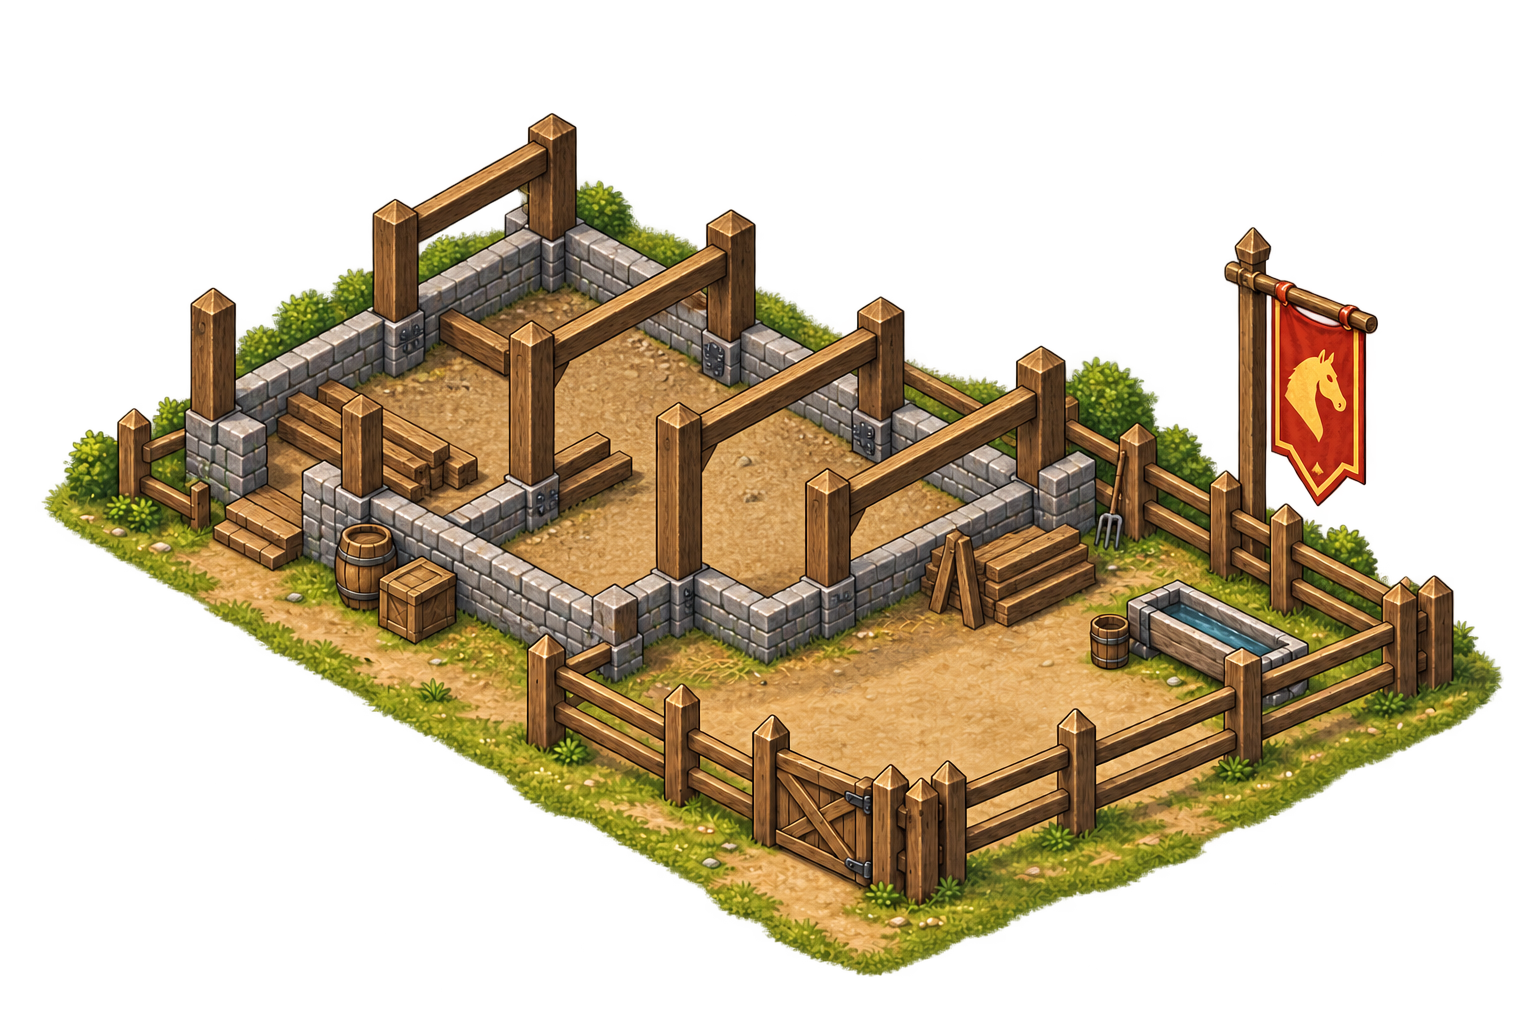
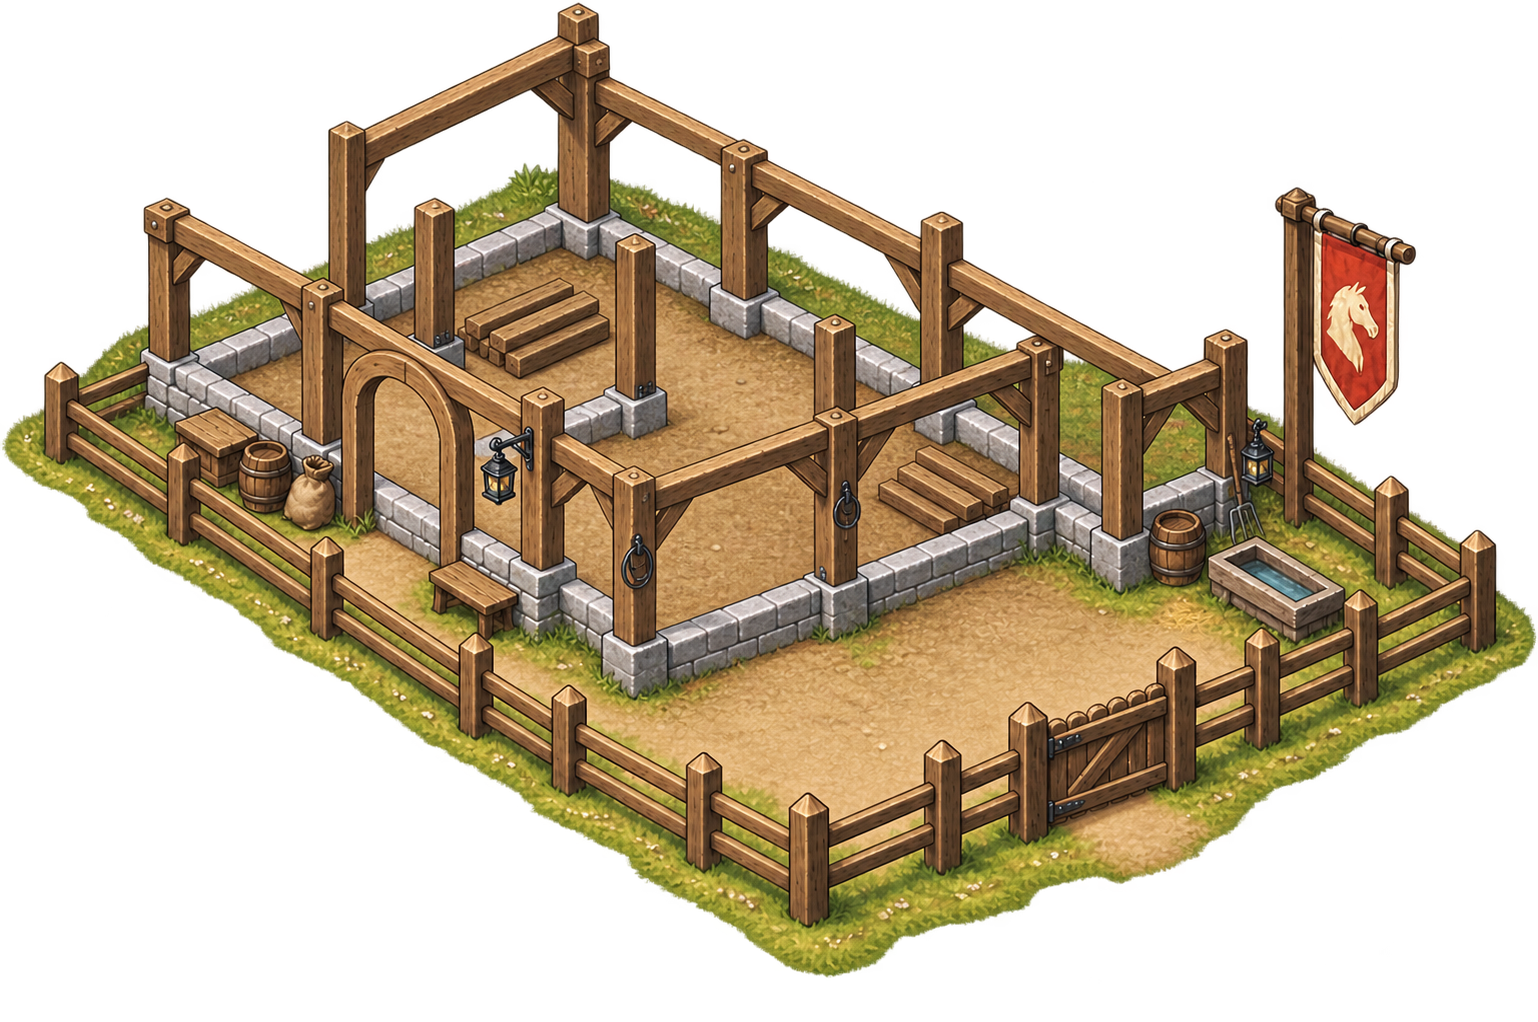
Auto-sync: 2026-09-24 01:21:37 | 15 changes (13 modified, 2 new, 13 deleted)

diff --git a/src/render/combatScene.ts b/src/render/combatScene.ts
@@ -58,8 +58,8 @@ export function createCombatScene(scene: THREE.Scene, characters: CharacterAsset
   function makeFighter(role: Fighter["role"], index: number, southernEdge: number): void {
     const lane = index % 5;
     const row = Math.floor(index / 5);
-    const targetY = -7.8 - lane * LANE_SPACING;
-    const targetX = role === "enemy" ? 1.9 + lane * 0.12 : role === "archer" ? -9.2 - row * 1.35 : role === "horseman" ? -2.6 - lane * 0.1 : -1.5 - lane * 0.12;
+    const targetY = -7.8 - lane * LANE_SPACING - (role === "horseman" ? 0.45 : 0);
+    const targetX = role === "enemy" ? 1.9 + lane * 0.12 : role === "archer" ? -9.2 - row * 1.35 : role === "horseman" ? -4.5 - lane * 0.1 : -1.5 - lane * 0.12;
     const startX = role === "enemy" ? -2.5 + lane * 1.3 : civicGround.x + (lane - 2) * 1.25;
     const startY = role === "enemy" ? southernEdge - SIZE - lane * 0.25 : civicGround.y - (role === "archer" ? 5.1 : role === "horseman" ? 7.0 : 3.4) - row * 1.35;
     const material = new THREE.SpriteMaterial({ map: role === "enemy" ? enemyWalk[0] : characters.getFrame(role, 0), transparent: true, depthTest: false });
@@ -67,7 +67,7 @@ export function createCombatScene(scene: THREE.Scene, characters: CharacterAsset
     const size = role === "horseman" ? SIZE * 1.32 : SIZE;
     sprite.scale.set(role === "enemy" ? -size : size, size, 1);
     sprite.position.set(startX, startY + size / 2, 2.8);
-    sprite.renderOrder = 75 + lane + row;
+    sprite.renderOrder = (role === "horseman" ? 86 : 75) + lane + row;
     scene.add(sprite);
     fighters.push({ sprite, material, role, lane, startX, startY, targetX, targetY });
   }
@@ -183,7 +183,8 @@ export function createCombatScene(scene: THREE.Scene, characters: CharacterAsset
     if (!active || finished) return null;
     const t = elapsed - startTime;
     if (t < 4.5) return "Raiders surge from the south as defenders leave the town center!";
-    if (t < 12.2) return strategy === "mixed" ? "Archers fire over the swordsmen holding the line!"
+    if (t < 12.2) return horsemenCount > 0 ? "Horsemen charge as the city defenders hold the line!"
+      : strategy === "mixed" ? "Archers fire over the swordsmen holding the line!"
       : strategy === "horsemen" ? "The horsemen charge through the raider line!"
       : strategy === "archers" ? "A volley of arrows rains on the raiders!"
         : strategy === "swordsmen" ? "The city's swordsmen meet the raider charge!"

diff --git a/src/main.ts b/src/main.ts
@@ -330,11 +330,14 @@ function handleSimulationEvents(events: SimulationEvent[]): void {
       const copy = completedMove < TOTAL_MOVES
         ? `Completed on Move ${completedMove}. The civic center also advanced.`
         : `Completed on Move ${completedMove}. The Grand Muster Hall stands ready to defend the city.`;
-      const newSoldiers = [
+      const trainedThisMove = [
         simulation.state.builtBuildingIds.includes("blacksmith") && "1 swordsman",
         simulation.state.builtBuildingIds.includes("weapons-workshop") && "1 archer",
         simulation.state.builtBuildingIds.includes("stable") && "2 horsemen",
-      ].filter(Boolean).join(" and ");
+      ].filter(Boolean);
+      const newSoldiers = trainedThisMove.length > 1
+        ? `${trainedThisMove.slice(0, -1).join(", ")}${trainedThisMove.length > 2 ? "," : ""} and ${trainedThisMove.at(-1)}`
+        : trainedThisMove[0] ?? "";
       hud.showMilestone(BUILDINGS[event.buildingId].name, newSoldiers ? `${copy} ${newSoldiers} joined the garrison.` : copy, animationElapsed);
     } else if (event.type === "civic-upgraded") {
       civicCenter.setLevel(event.level);
@@ -355,7 +358,8 @@ function handleSimulationEvents(events: SimulationEvent[]): void {
       villagerField.syncVillagers(Math.max(0, event.total - simulation.state.trainedUnits.archers - simulation.state.trainedUnits.swordsmen - simulation.state.trainedUnits.horsemen));
     } else if (event.type === "unit-trained") {
       villagerField.syncGarrison(event.units, animationElapsed, simulation.state.builtBuildingIds);
-      const newUnits = [event.newSwordsmen && "1 swordsman", event.newArchers && "1 archer", event.newHorsemen && "2 horsemen"].filter(Boolean).join(" and ");
+      const trained = [event.newSwordsmen && "1 swordsman", event.newArchers && "1 archer", event.newHorsemen && "2 horsemen"].filter(Boolean);
+      const newUnits = trained.length > 1 ? `${trained.slice(0, -1).join(", ")}${trained.length > 2 ? "," : ""} and ${trained.at(-1)}` : trained[0] ?? "";
       hud.setStatus(`${newUnits} joined the town hall garrison · ${event.units.swordsmen + event.units.archers + event.units.horsemen} defenders`, 1);
     } else if (event.type === "army-mustered") {
       void startCombat(event.report);

diff --git a/src/render/villagers.ts b/src/render/villagers.ts
@@ -254,10 +254,10 @@ export function createVillagerField(scene: THREE.Scene, characters: CharacterAss
     }
     if (animationElapsed === undefined) {
       lastGarrisonElapsed = null;
-        let swordIndex = 0;
-        let archerIndex = 0;
-        let horseIndex = 0;
-        for (const soldier of garrison) {
+      let swordIndex = 0;
+      let archerIndex = 0;
+      let horseIndex = 0;
+      for (const soldier of garrison) {
         const index = soldier.role === "swordsman" ? swordIndex++ : soldier.role === "archer" ? archerIndex++ : horseIndex++;
         const target = garrisonTarget(soldier.role, index, units.swordsmen, units.archers);
         soldier.bornAt = null;

diff --git a/Assets/Art/Production/Buildings/Stable/GENERATION_NOTES.md b/Assets/Art/Production/Buildings/Stable/GENERATION_NOTES.md
@@ -1,0 +1,12 @@
+# Stable art
+
+Generated with OpenAI imagegen on 2026-09-24. The four PNGs in `Runtime2x/` are the source masters for the WebP runtime export. The finished building and its three construction stages were generated against the existing Barracks sprite so their isometric angle, painted style, and transparent cutout match the city.
+
+## Prompts
+
+- **Finished Stable:** "Create a new isometric 3/4 view medieval STABLE game building sprite in exactly the same painted visual style, angle, clean transparent alpha cutout, canvas layout and scale as the supplied Barracks sprite. Timber and light stone stable, terracotta roof, 2 chestnut horses in open stalls, fenced paddock, small red horse emblem banner, trough, hay, irregular little patch of grass and dirt under building. Isolated cutout with transparent pixels everywhere outside the roof, walls, horses, banner, fence and small ground patch. No colored atmosphere or glow, no vignette, no scenic background."
+- **Foundation:** "Create the foundation construction stage of this exact medieval stable game sprite. Keep the same isometric angle, footprint, fenced paddock, little horse banner and small props. Show only low stone footing, bare dirt foundation, upright structural posts and a few timber piles; no roof, no finished walls or horses yet. Production-ready isolated sprite with truly transparent alpha everywhere outside the structure and irregular little grass/dirt footprint."
+- **Frame:** "Create the middle wooden-frame construction stage of this exact medieval stable game sprite. Keep the same isometric angle, building footprint, fenced paddock, little horse banner and small props. Show partial stone-and-plaster walls, exposed timber roof trusses and unfinished stall partitions, no roof tiles or horses. Production-ready isolated sprite with truly transparent alpha everywhere outside the structure and irregular grass/dirt footprint."
+- **Late:** "Produce the late construction stage of this Stable sprite, intermediate between the clean transparent timber frame and completed building. Show 75% of terracotta roofing finished, one open rafter section, one horse in stall, ladder and tile stacks, same fence and horse banner. Genuine transparent pixels outside the detailed roof/building/banner/grass footprint."
+
+The clean cutout variants replaced initial generated drafts with broad painted background gradients, which did not composite well on the terrain.

diff --git a/Assets/Art/PROVENANCE.md b/Assets/Art/PROVENANCE.md
@@ -8,7 +8,9 @@ Categories (ART_PIPELINE §41): Human-created · AI-generated · Licensed asset 
 
 | Art family | Files | Category | Tool / source | Licence and commercial-use terms checked | Human edits | Prompt kept? |
 |---|---|---|---|---|---|---|
-| Buildings (15 types × 4 construction stages) | `Assets/Art/Production/Buildings/*/Runtime2x/` | Likely AI-generated, then edited (confirm) | TODO: tool name | TODO | TODO | Benchmark prompt in `ART_DIRECTION.md`; others TODO |
+| Earlier buildings (15 types × 4 construction stages) | `Assets/Art/Production/Buildings/*/Runtime2x/` | Likely AI-generated, then edited (confirm) | TODO: tool name | TODO | TODO | Benchmark prompt in `ART_DIRECTION.md`; others TODO |
+| Stable (4 construction stages) | `Assets/Art/Production/Buildings/Stable/Runtime2x/` | AI-generated | OpenAI imagegen, 2026-09-24 | TODO: owner to confirm commercial-use terms for submission | Clean cutout variants selected; WebP runtime export | `Buildings/Stable/GENERATION_NOTES.md` |
+| Horseman attack sheet | `Assets/Art/Production/Characters/Horseman/`, `Assets/Art/Generated 512/horseman-attack4.png` | AI-generated, then assembled | OpenAI imagegen, 2026-09-24 | TODO: owner to confirm commercial-use terms for submission | Four poses assembled and resized by script | `Characters/Horseman/GENERATION_NOTES.md` |
 | Civic center levels 0–8 | `Assets/Art/Production/Buildings/CivicCenter/` | Likely AI-generated, then edited (confirm) | TODO: tool name | TODO | TODO | TODO |
 | Villagers and soldiers (walk sheets) | `Assets/Art/Generated 512/`, built into sheets by `Production/create-walk-sheets.ps1` | Likely AI-generated, then edited (confirm) | TODO: tool name | TODO | Walk sheets assembled by script | TODO |
 | Terrain and trees | TODO (path) | Likely AI-generated, then edited (confirm) | TODO: tool name | TODO | TODO | TODO |

diff --git a/Assets/Art/Production/Characters/Horseman/GENERATION_NOTES.md b/Assets/Art/Production/Characters/Horseman/GENERATION_NOTES.md
@@ -1,0 +1,5 @@
+# Horseman attack art
+
+Generated with OpenAI imagegen on 2026-09-24 from the existing horseman walk sheet as style reference. The four poses show ready, lance lowered, forward strike, and recovery. `horseman-attack4-master-v1.png` is the generated master. `Tools/ArtPipeline/prepare_horseman_attack.py` assembles the four poses into `Assets/Art/Generated 512/horseman-attack4.png`; the runtime export creates the WebP.
+
+Prompt: "Create a 2×2 four-frame attack sprite sheet of the game's mounted horseman in the same painterly isometric style as the supplied horseman walk sprites. The rider has a red plume, crimson tunic, round shield, chestnut horse, and long lance. Frame 1 ready, frame 2 lower the lance, frame 3 drive forward and strike, frame 4 recover. Transparent background, full horse and rider in each quadrant, consistent scale, ground contact, and clear silhouette."
